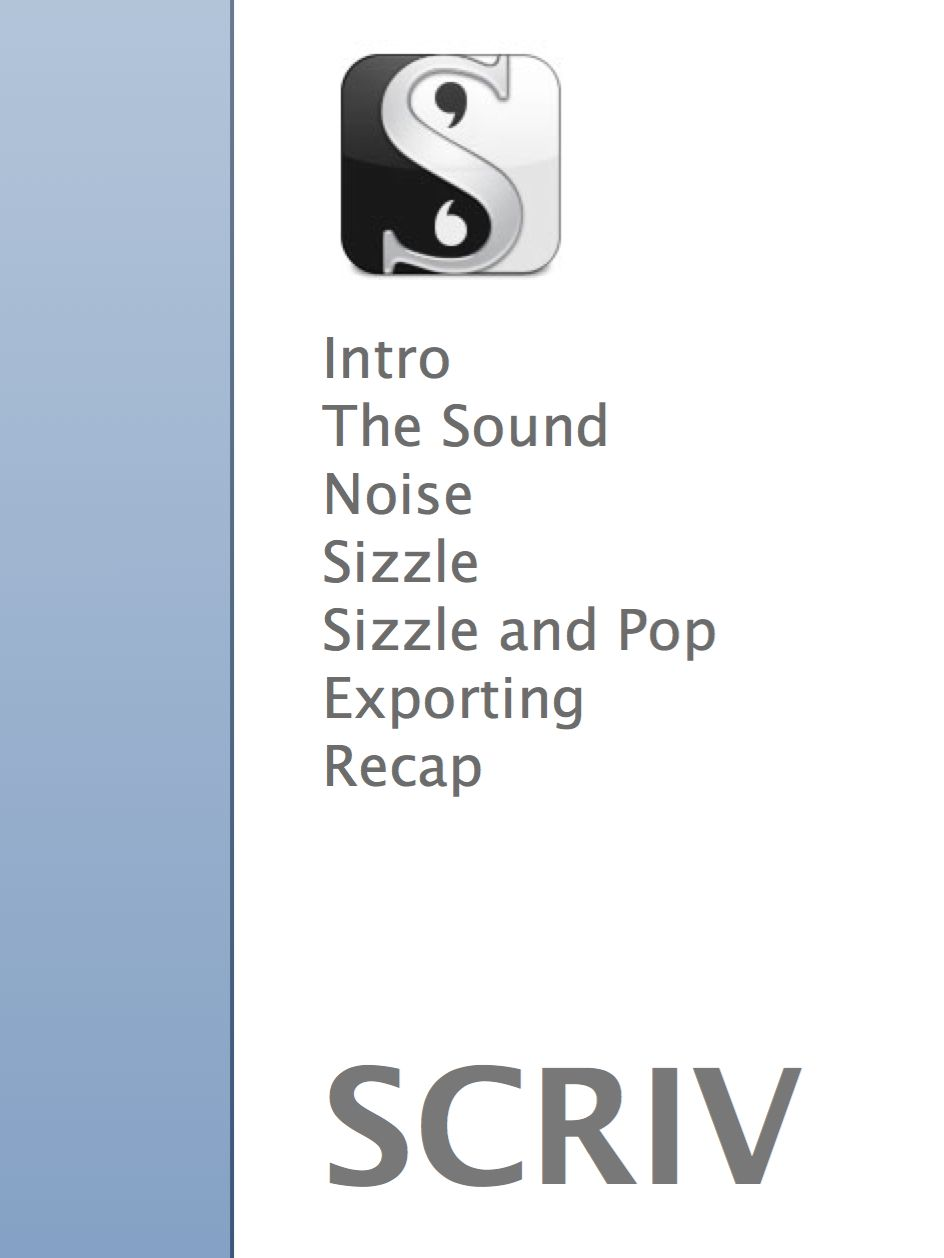
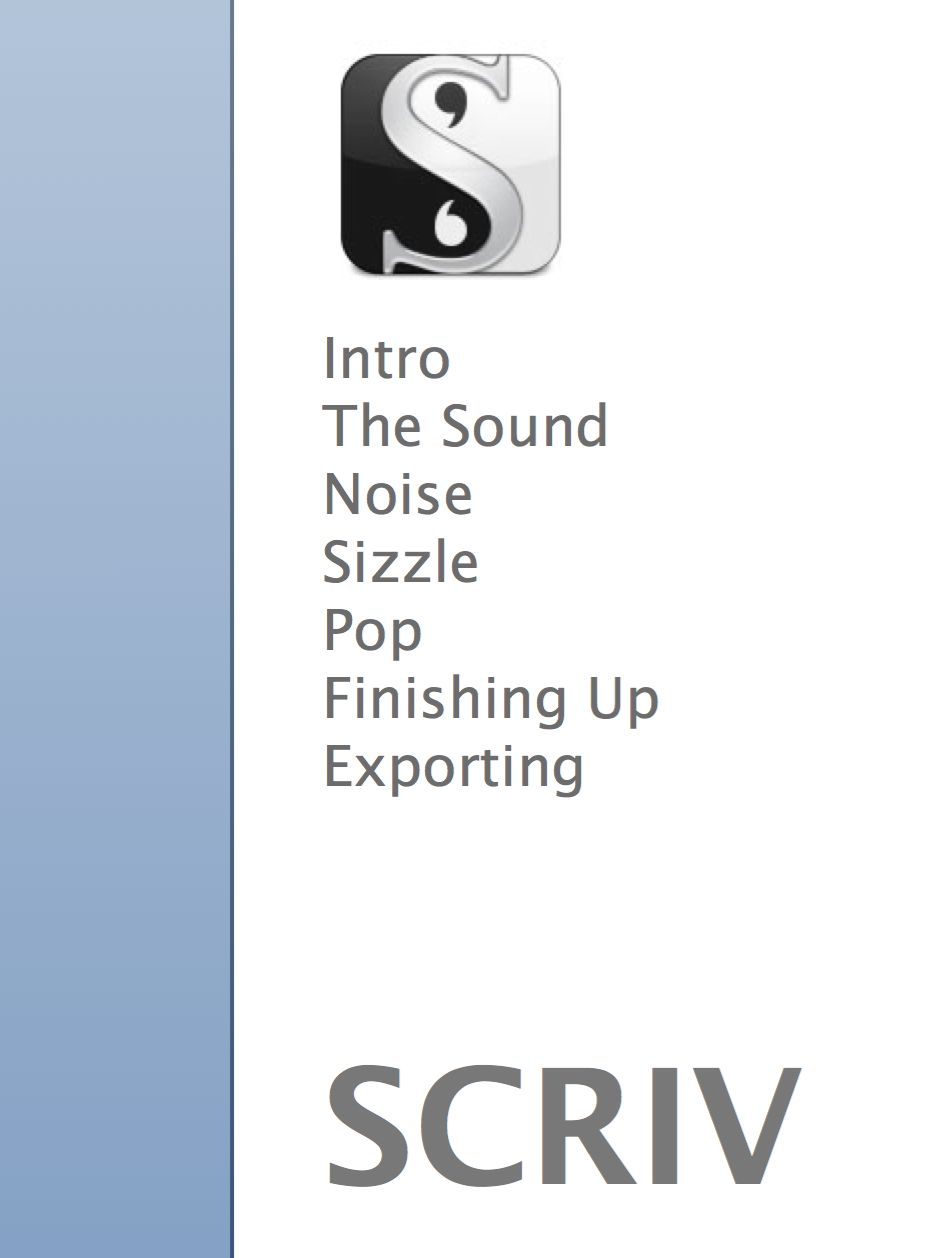
Adding grapher after all, adding it to the final patch. Updating article for first draft.

Changed region(s): [[0.3379, 0.465, 0.768, 0.651]]

diff --git a/article.scriv/QuickLook/Preview.html b/article.scriv/QuickLook/Preview.html
@@ -42,19 +42,34 @@ Ok, let's make a sound! Can you think of a better sound than bacon frying up in 
 The sound of bacon frying is also relatively easy to reproduce. Let's break it down and analyze what happens when bacon fries in a pan. As the bacon sits in the pan and heats up, that sizzling sound you hear is a...</p>
 </li>
 <li>
-<p class="binderItem"><strong>Noise</strong></p>
+<p class="binderItem"><strong>Noise</strong><br/>## Noise: Random Sound<br/>
+<br/>
+So, we have two primary goals for simulating this sound: one is to produce short impulses, and the second is to produce them randomly. Let's be more specific and say that we want the impulses to be random in time and loudness, not in tone.<br/>
+<br/>
+There's a common generated sound called noise which fits the bill here. Noise is defined as a random signal. It's basically a series of impulses, again: quick bursts of energy, with random intensity (which we perceive as loudness) and ...</p>
 </li>
 <li>
-<p class="binderItem"><strong>Sizzle</strong></p>
+<p class="binderItem"><strong>Sizzle</strong><br/>## Sizzle<br/>
+<br/>
+So, the problem we want to fix is that the generated noise produces many random impulses distributed across all the audible frequencies, but we want fewer and only in a certain frequency range -- the range in which we want to hear the sizzle.<br/>
+<br/>
+To do this, we can use a filter. A filter affects sounds by excluding certain frequencies and allowing others to pass through unchanged. An equalizer on your stereo makes use of filters.<br/>
+<br/>
+We'll use a certain type of filter called a "bandpass" fi...</p>
 </li>
 <li>
-<p class="binderItem"><strong>Sizzle and Pop</strong></p>
+<p class="binderItem"><strong>Pop</strong><br/>## Pop<br/>
+<br/>
+To get the popping sound what we'll do is just duplicate what we did for the sizzle, but with some different parameters for a slightly different sound.<br/>
+<br/>
+First, though, disconnect the "output~" and move it to the side. After the "-~ 0.2" create an object: "throw~ out" and connect the "-~ 0.2" to it. Then above the "output~" add an object containing "catch~ out". The throw/catch pattern is a common way to clean up Pd patches that require multiple connections. Signals are sent from one or m...</p>
 </li>
 <li>
-<p class="binderItem"><strong>Exporting</strong></p>
-</li>
-<li>
-<p class="binderItem"><strong>Recap</strong></p>
+<p class="binderItem"><strong>Finishing Up</strong><br/>## Finishing Up<br/>
+<br/>
+Listening to the sound we're producing so far, it's just a little off. It's a little too low-sounding. To clean this up we'll use another filter, a high-pass filter. A high pass filter allows frequencies above a certain point through, and attenuates lower frequencies. This would be like turning the bass all the way down on your radio.<br/>
+<br/>
+To add this object, disconnect the "catch~ out" object and put an object with the text "hip~ 2200" between the "catch~" and the "output~". Listen...</p>
 </li>
 </ul>
 
